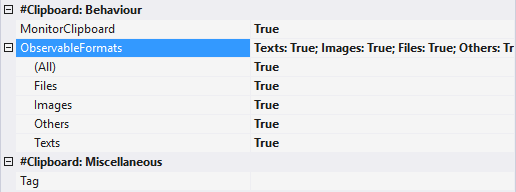
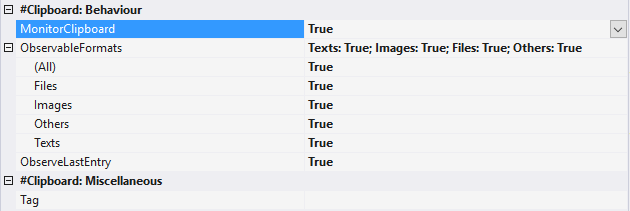
Added the property 'ObserveLastEntry' that enables/disables auto-picking of the last clipboard item once monitoring is enabled.

Changed region(s): [[0.0, 0.0, 1.0, 1.0], [0.031, 0.9062, 0.093, 1.0]]

diff --git a/SharpClipboard/SharpClipboard.cs b/SharpClipboard/SharpClipboard.cs
@@ -23,7 +23,6 @@ using System.ComponentModel.Design;
 using System.Runtime.InteropServices;
 
 using WK.Libraries.SharpClipboardNS.Views;
-using System.Text;
 
 namespace WK.Libraries.SharpClipboardNS
 {
@@ -59,14 +58,10 @@ namespace WK.Libraries.SharpClipboardNS
         #endregion
 
         #region Fields
-
+    
         private bool _monitorClipboard;
+        private bool _observeLastEntry;
 
-        private string _clipboardText;
-        private string _clipboardFile;
-        private List<string> _clipboardFiles = new List<string>();
-
-        private Image _clipboardImage;
         private Timer _timer = new Timer();
         private ClipboardHandle _handle = new ClipboardHandle();
         private ObservableDataFormats _observableFormats = new ObservableDataFormats();
@@ -104,7 +99,7 @@ namespace WK.Libraries.SharpClipboardNS
         #endregion
 
         #region Properties
-
+    
         #region Browsable
 
         /// <summary>
@@ -121,6 +116,28 @@ namespace WK.Libraries.SharpClipboardNS
 
                 _monitorClipboard = value;
                 MonitorClipboardChanged?.Invoke(this, EventArgs.Empty);
+
+            }
+        }
+
+        /// <summary>
+        /// When set to true, the last cut/copied clipboard item will
+        /// not be auto-picked once monitoring is enabled. However when 
+        /// set to false, the last cut/copied clipboard item will be 
+        /// auto-picked once monitoring is enabled.
+        /// </summary>
+        [Category("#Clipboard: Behaviour")]
+        [Description("When set to true, the last cut/copied clipboard item will " +
+                     "not be auto-picked once monitoring is enabled. However when " +
+                     "set to false, the last cut/copied clipboard item will be " +
+                     "auto-picked once monitoring is enabled.")]
+        public bool ObserveLastEntry
+        {
+            get { return _observeLastEntry; }
+            set {
+
+                _observeLastEntry = value;
+                ObserveLastEntryChanged?.Invoke(this, EventArgs.Empty);
 
             }
         }
@@ -163,41 +180,25 @@ namespace WK.Libraries.SharpClipboardNS
         /// Gets the currently cut/copied clipboard text.
         /// </summary>
         [Browsable(false)]
-        public string ClipboardText
-        {
-            get { return _clipboardText; }
-            internal set { _clipboardText = value; }
-        }
+        public string ClipboardText { get; internal set; }
 
         /// <summary>
         /// Gets the currently cut/copied clipboard file-path.
         /// </summary>
         [Browsable(false)]
-        public string ClipboardFile
-        {
-            get { return _clipboardFile; }
-            internal set { _clipboardFile = value; }
-        }
+        public string ClipboardFile { get; internal set; }
 
         /// <summary>
         /// Gets the currently cut/copied clipboard file-paths.
         /// </summary>
         [Browsable(false)]
-        public List<string> ClipboardFiles
-        {
-            get { return _clipboardFiles; }
-            internal set { _clipboardFiles = value; }
-        }
+        public List<string> ClipboardFiles { get; internal set; } = new List<string>();
 
         /// <summary>
         /// Gets the currently cut/copied clipboard image.
         /// </summary>
         [Browsable(false)]
-        public Image ClipboardImage
-        {
-            get { return _clipboardImage; }
-            internal set { _clipboardImage = value; }
-        }
+        public Image ClipboardImage { get; internal set; }
 
         #endregion
 
@@ -214,8 +215,9 @@ namespace WK.Libraries.SharpClipboardNS
             _timer.Enabled = true;
             _timer.Interval = 1000;
             _timer.Tick += OnLoad;
-
+        
             MonitorClipboard = true;
+            ObserveLastEntry = true;
         }
 
         [DllImport("user32.dll")]
@@ -294,6 +296,13 @@ namespace WK.Libraries.SharpClipboardNS
         [Category("#Clipboard: Events")]
         [Description("Occurs whenever the allowed observable formats have been changed.")]
         public event EventHandler<EventArgs> ObservableFormatsChanged = null;
+
+        /// <summary>
+        /// Occurs whenever the 'ObserveLastEntry' property has been changed.
+        /// </summary>
+        [Category("#Clipboard: Events")]
+        [Description("Occurs whenever the allowed observable formats have been changed.")]
+        public event EventHandler<EventArgs> ObserveLastEntryChanged = null;
 
         #endregion
 

diff --git a/SharpClipboard/Views/ClipboardHandle.cs b/SharpClipboard/Views/ClipboardHandle.cs
@@ -1,6 +1,6 @@
 /*
  * The SharpClipboard Handle.
- * ----------------------------------------
+ * ---------------------------------------+
  * Please preserve this window.
  * It acts as the message-processing
  * handle with regards to the clipboard. 
@@ -8,7 +8,7 @@
  * The window however will not be visible
  * to the users both via the Taskbar or 
  * the Task Manager so don't you worry :)
- * ----------------------------------------
+ * ---------------------------------------+
  * 
  */
 
@@ -16,13 +16,19 @@
 using System;
 using System.Text;
 using System.Drawing;
+using System.Diagnostics;
 using System.Windows.Forms;
 using System.ComponentModel;
 using System.Runtime.InteropServices;
-using System.Diagnostics;
 
 namespace WK.Libraries.SharpClipboardNS.Views
 {
+    /// <summary>
+    /// This window acts as a handle to the clipboard-monitoring process and 
+    /// thus will be launched in the background once the component has started 
+    /// the monitoring service. However, it won't be visible to anyone even via 
+    /// the Task Manager.
+    /// </summary>
     public partial class ClipboardHandle : Form
     {
         #region Constructor
@@ -41,6 +47,8 @@ namespace WK.Libraries.SharpClipboardNS.Views
         const int WM_DRAWCLIPBOARD = 0x0308;
         const int WM_CHANGECBCHAIN = 0x030D;
 
+        private bool _ready;
+
         private string _processName = string.Empty;
         private string _executableName = string.Empty;
         private string _executablePath = string.Empty;
@@ -50,11 +58,30 @@ namespace WK.Libraries.SharpClipboardNS.Views
         #region Properties
 
         /// <summary>
+        /// Checks if the handle is ready to monitor the system clipboard.
+        /// It is used to provide a final value for use whenever the property 
+        /// 'ObserveLastEntry' is enabled.
+        /// </summary>
+        [Browsable(false)]
+        internal bool Ready
+        {
+            get {
+
+                if (SharpClipboardInstance.ObserveLastEntry)
+                    _ready = true;
+
+                return _ready;
+
+            }
+            set { _ready = value; }
+        }
+
+        /// <summary>
         /// Gets or sets an active <see cref="SharpClipboard"/> instance
         /// for use when managing the current clipboard handle.
         /// </summary>
         [Browsable(false)]
-        public SharpClipboard SharpClipboardInstance { get; set; }
+        internal SharpClipboard SharpClipboardInstance { get; set; }
         
         #endregion
 
@@ -111,7 +138,7 @@ namespace WK.Libraries.SharpClipboardNS.Views
                 case WM_DRAWCLIPBOARD:
 
                     // If clipboard-monitoring is enabled, proceed to listening.
-                    if (SharpClipboardInstance.MonitorClipboard)
+                    if (Ready && SharpClipboardInstance.MonitorClipboard)
                     {
                         IDataObject dataObj = Clipboard.GetDataObject();
 
@@ -271,6 +298,7 @@ namespace WK.Libraries.SharpClipboardNS.Views
         {
             // Start listening for clipboard changes.
             _chainedWnd = SetClipboardViewer(this.Handle);
+            Ready = true;
         }
 
         private void OnFormClosing(object sender, FormClosingEventArgs e)

diff --git a/SharpCliboard.Tests/MainForm.Designer.cs b/SharpCliboard.Tests/MainForm.Designer.cs
@@ -373,7 +373,9 @@ namespace SharpClipboardPreview.Tests
             this.sharpClipboard1.ObservableFormats.All = true;
             this.sharpClipboard1.ObservableFormats.Files = true;
             this.sharpClipboard1.ObservableFormats.Images = true;
+            this.sharpClipboard1.ObservableFormats.Others = true;
             this.sharpClipboard1.ObservableFormats.Texts = true;
+            this.sharpClipboard1.ObserveLastEntry = true;
             this.sharpClipboard1.Tag = null;
             this.sharpClipboard1.ClipboardChanged += new System.EventHandler<WK.Libraries.SharpClipboardNS.SharpClipboard.ClipboardChangedEventArgs>(this.sharpClipboard1_ClipboardChanged);
             this.sharpClipboard1.MonitorClipboardChanged += new System.EventHandler<System.EventArgs>(this.sharpClipboard1_MonitorClipboardChanged);

diff --git a/SharpClipboard/Properties/AssemblyInfo.cs b/SharpClipboard/Properties/AssemblyInfo.cs
@@ -32,5 +32,5 @@ using System.Runtime.InteropServices;
 // You can specify all the values or you can default the Build and Revision Numbers
 // by using the '*' as shown below:
 // [assembly: AssemblyVersion("1.0.*")]
-[assembly: AssemblyVersion("2.0.5.0")]
-[assembly: AssemblyFileVersion("2.0.5.0")]
+[assembly: AssemblyVersion("2.0.7.0")]
+[assembly: AssemblyFileVersion("2.0.7.0")]

diff --git a/README.md b/README.md
@@ -1,5 +1,5 @@
 # SharpClipboard
-[![sc-nuget](/Assets/nuget-package-2.0.5-brightgreen.svg)](https://www.nuget.org/packages/SharpClipboard/) [![sc-donate](/Assets/Donate-PayPal-blue.svg)](https://www.paypal.com/cgi-bin/webscr?cmd=_s-xclick&hosted_button_id=DJ8D9CE8BWA3J&source=url)
+[![sc-nuget](/Assets/nuget-package-2.0.7-brightgreen.svg)](https://www.nuget.org/packages/SharpClipboard/) [![sc-donate](/Assets/Donate-PayPal-blue.svg)](https://www.paypal.com/cgi-bin/webscr?cmd=_s-xclick&hosted_button_id=DJ8D9CE8BWA3J&source=url)
 
 **SharpClipboard** is a clipboard-monitoring library for .NET that listens to the system's clipboard entries,
 allowing developers to tap into the rich capabilities of determining the clipboard's contents at runtime.
@@ -12,7 +12,7 @@ Here's a screenshot and below a usage-preview of the library's features:
 # Installation
 To install via the NuGet Package Manager Console, type:
 
-> `Install-Package SharpClipboard -Version 2.0.5`
+> `Install-Package SharpClipboard -Version 2.0.7`
 
 You can also [download](https://github.com/Willy-Kimura/SharpClipboard/releases/download/v2.0.5/SharpClipboard.dll) the assembly and add it to Visual Studio's Toolbox; plus not forgetting its [documentation](https://github.com/Willy-Kimura/SharpClipboard/releases/download/v2.0.5/SharpClipboard.xml).
 
